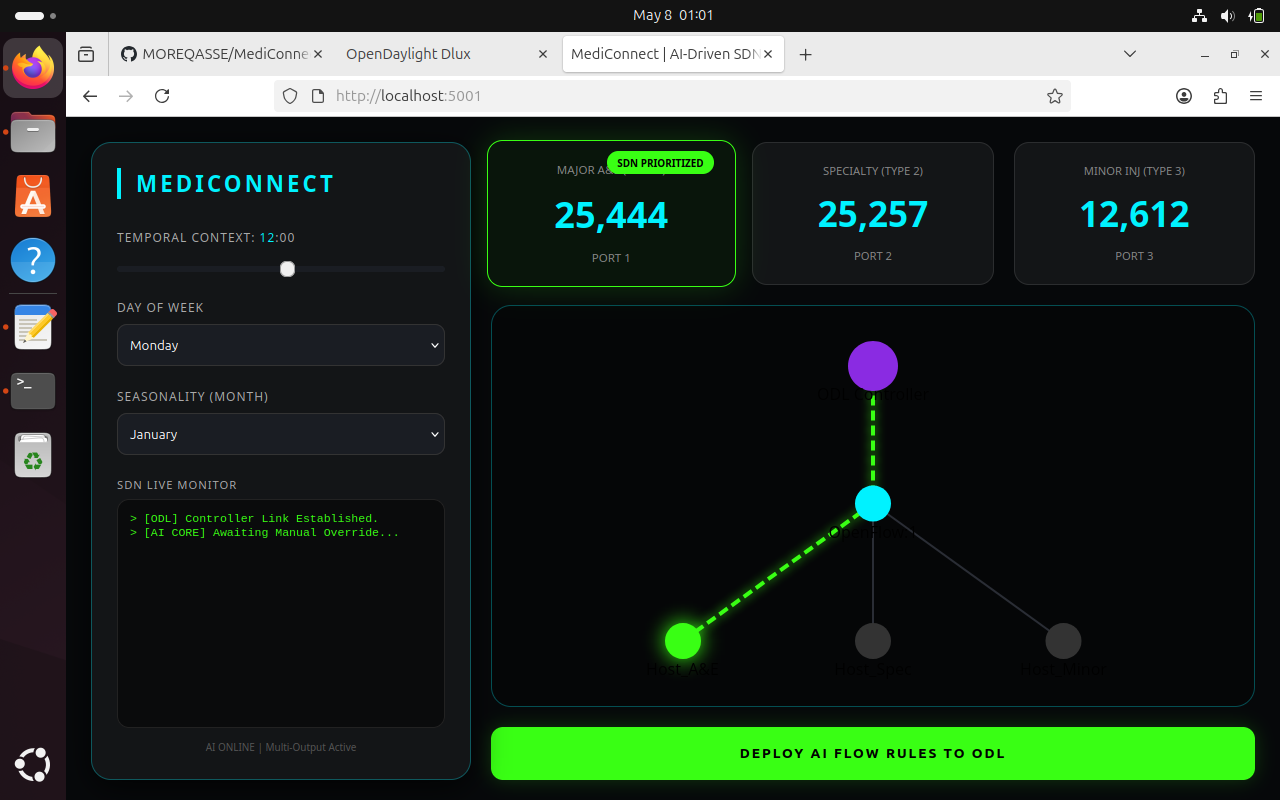
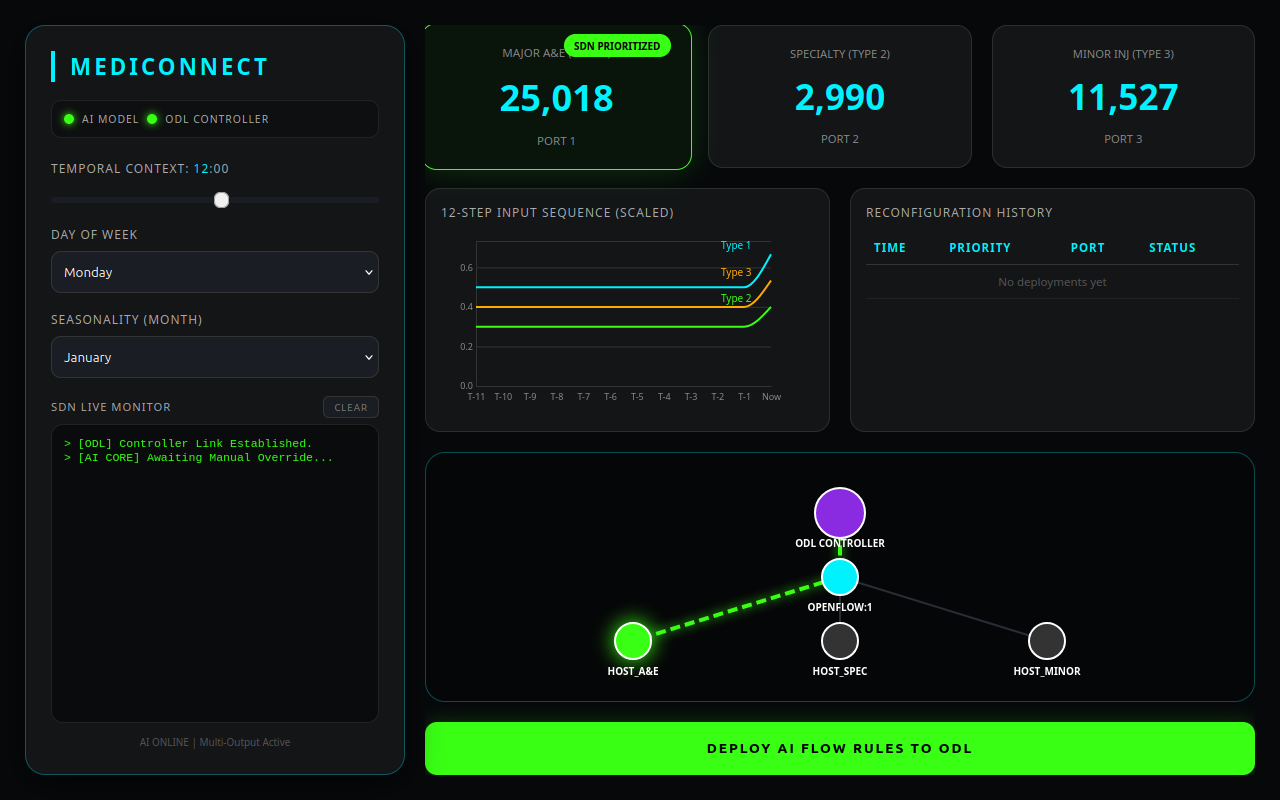
added manual override

diff --git a/dashboard.py b/dashboard.py
@@ -384,6 +384,14 @@ HTML_TEMPLATE = """
         .action-btn.stop:hover { box-shadow: 0 0 40px rgba(255,42,42,.4); }
         .action-btn.stop.visible { display: block; }
 
+        .action-btn.restore {
+            background: var(--neon-cyan); color: black;
+            box-shadow: 0 0 20px rgba(0,242,255,.2);
+            display: none;
+        }
+        .action-btn.restore:hover { box-shadow: 0 0 40px rgba(0,242,255,.4); }
+        .action-btn.restore.visible { display: block; }
+
         .link       { stroke: #2a2d35; stroke-width: 2; }
         .link.active-flow {
             stroke: var(--neon-green); stroke-width: 4;
@@ -461,19 +469,19 @@ HTML_TEMPLATE = """
 
         <!-- Stat cards -->
         <div class="stats-row">
-            <div id="card-type1" class="stat-card">
+            <div id="card-type1" class="stat-card" onclick="setManualOverride('type1')" style="cursor: pointer;" title="Click for Manual Override">
                 <div class="priority-badge">SDN PRIORITIZED</div>
                 <div class="lbl">Major A&amp;E (Type 1)</div>
                 <div id="val-type1" class="val">0</div>
                 <div class="lbl">Port 1</div>
             </div>
-            <div id="card-type2" class="stat-card">
+            <div id="card-type2" class="stat-card" onclick="setManualOverride('type2')" style="cursor: pointer;" title="Click for Manual Override">
                 <div class="priority-badge">SDN PRIORITIZED</div>
                 <div class="lbl">Specialty (Type 2)</div>
                 <div id="val-type2" class="val">0</div>
                 <div class="lbl">Port 2</div>
             </div>
-            <div id="card-type3" class="stat-card">
+            <div id="card-type3" class="stat-card" onclick="setManualOverride('type3')" style="cursor: pointer;" title="Click for Manual Override">
                 <div class="priority-badge">SDN PRIORITIZED</div>
                 <div class="lbl">Minor Inj (Type 3)</div>
                 <div id="val-type3" class="val">0</div>
@@ -514,8 +522,9 @@ HTML_TEMPLATE = """
 
         <!-- Buttons -->
         <div class="action-row">
-            <button class="action-btn" onclick="pushSDN()">Deploy AI Flow Rules to ODL</button>
+            <button class="action-btn" onclick="pushSDN()">Deploy Flow Rules to ODL</button>
             <button class="action-btn stop" id="stop-btn" onclick="stopPolling()">Stop Audit</button>
+            <button class="action-btn restore" id="ai-restore-btn" onclick="resetAIControl()">Restore AI Control</button>
         </div>
     </div>
 </div>
@@ -523,7 +532,37 @@ HTML_TEMPLATE = """
 <script>
     // State
     let currentPriority = '';
+    let aiPredictedPriority = '';
+    let isManualOverride = false;
     let packetPollTimer = null;
+
+    function updatePriorityUI(priority) {
+        ['type1','type2','type3'].forEach(id => {
+            document.getElementById('card-'+id)
+                .classList.toggle('active-priority', priority === id);
+        });
+
+        if (currentPriority !== priority) {
+            currentPriority = priority;
+            drawViz(currentPriority);
+        }
+    }
+
+    function setManualOverride(priority) {
+        isManualOverride = true;
+        updatePriorityUI(priority);
+        document.getElementById('ai-restore-btn').classList.add('visible');
+        log(`[MANUAL OVERRIDE] Priority set to ${priority.toUpperCase()}`);
+    }
+
+    function resetAIControl() {
+        isManualOverride = false;
+        document.getElementById('ai-restore-btn').classList.remove('visible');
+        log('[AI CONTROL] Restored control to AI model.');
+        if (aiPredictedPriority) {
+            updatePriorityUI(aiPredictedPriority);
+        }
+    }
     const consoleEl = document.getElementById('odl-console');
     const MAX_LOG_LINES = 50;
     let debounceTimer;
@@ -679,14 +718,10 @@ HTML_TEMPLATE = """
             document.getElementById('val-type2').innerText = data.rooms.type2.toLocaleString();
             document.getElementById('val-type3').innerText = data.rooms.type3.toLocaleString();
 
-            ['type1','type2','type3'].forEach(id => {
-                document.getElementById('card-'+id)
-                    .classList.toggle('active-priority', data.priority === id);
-            });
+            aiPredictedPriority = data.priority;
 
-            if (currentPriority !== data.priority) {
-                currentPriority = data.priority;
-                drawViz(currentPriority);
+            if (!isManualOverride) {
+                updatePriorityUI(aiPredictedPriority);
             }
 
             if (data.history) drawHistoryChart(data.history);
@@ -695,8 +730,8 @@ HTML_TEMPLATE = """
 
     // Deploy + start packet polling
     async function pushSDN() {
-        if (!currentPriority) { log('[WARN] No AI prediction yet. Move the sliders first.'); return; }
-        log(`[SIGNAL] AI Predicted Surge -> ${currentPriority.toUpperCase()}`);
+        if (!currentPriority) { log('[WARN] No priority set yet.'); return; }
+        log(`[SIGNAL] ${isManualOverride ? 'Manual Override' : 'AI Predicted Surge'} -> ${currentPriority.toUpperCase()}`);
         log('[ODL] Sending flow rule to controller...');
 
         try {